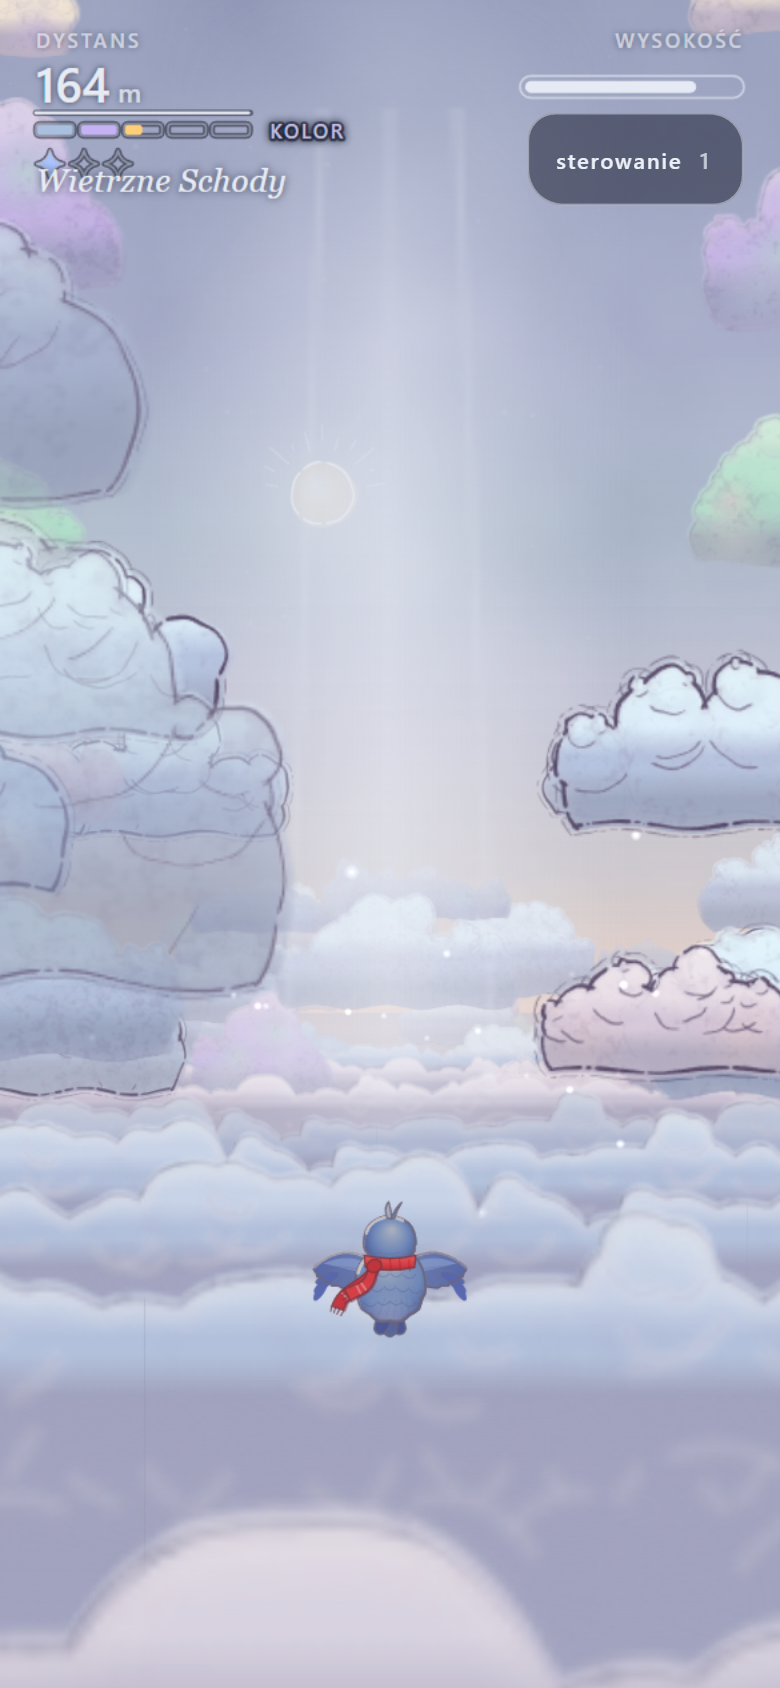
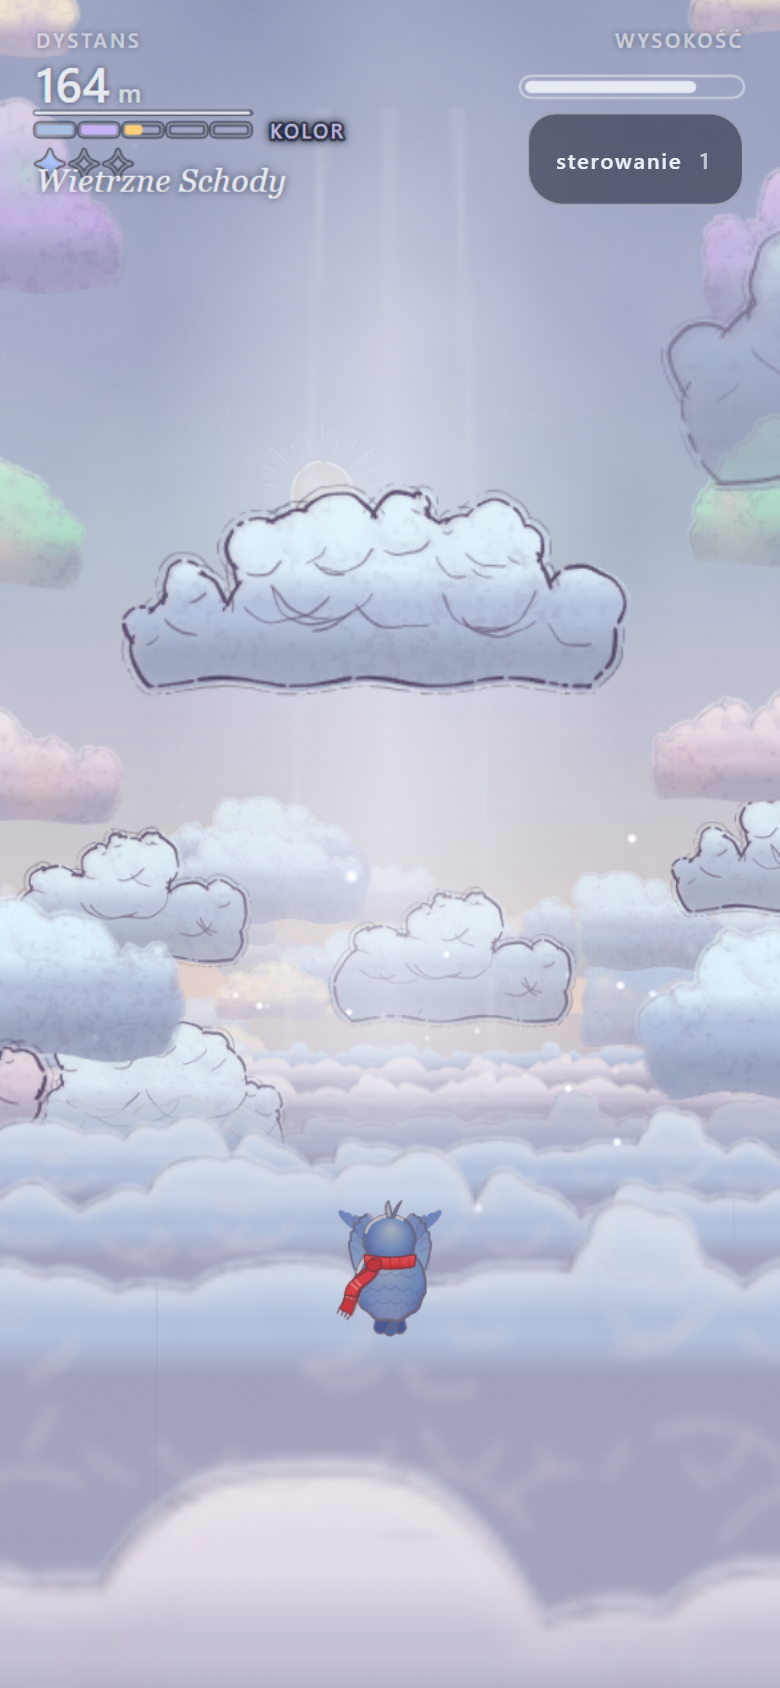
Z3c: nasycenie rośnie z poziomem także na tej samej scenie; test etapów koloru mierzy zamrożony świat
Przyczyna: w pełni koloru (L4/E=1) nasycenie chmur nie było wyraźnie wyższe niż w etapie ciepłym, więc na części układów chmur frakcja barwnych pikseli L4 spadała poniżej L3 (to samo w bazie sprzed Z3c, 2/10 scen; po zmianie palety 3/10).
Poprawka: SAT_FULL 0,35 w stageCol i w tonach chmur (rośnie z ST.f, pastele E 0,3-0,62 bez zmian); test Z3b mierzy każdy poziom na tej samej scenie (tempo 0,02), progi bez zmian. Pomiar diag_chroma3.cjs: 0/10 złych scen.

diff --git a/index.html b/index.html
@@ -1563,12 +1563,12 @@ na chmurce.</p>
 
   /* ---------- kolor: etapy, odcienie, paleta światła ---------- */
   /* kolor etapu: baza (kontur/granat) -> szarość/błękit -> pastel -> ciepło pory -> pełnia; warstwy nakładają się (etapy rozciągnięte) */
-  var PASTEL_WARM = 0.2, PASTEL_SAT = 1.55;
+  var PASTEL_WARM = 0.2, PASTEL_SAT = 1.55, SAT_FULL = 0.35;
   function satc(c, k) { var l = lumOf(c); return [Math.max(0, Math.min(255, l + (c[0] - l) * k)), Math.max(0, Math.min(255, l + (c[1] - l) * k)), Math.max(0, Math.min(255, l + (c[2] - l) * k))]; }
   function stageCol(base, F, warm, hz, ww) {
     var l = lumOf(F), Gc = [l * 0.9, l * 0.98, Math.min(255, l * 1.1 + 6)], Pc = mixc(mixc(F, [238, 232, 252], 0.42), [196, 210, 248], 0.18), Wc = mixc(F, warm, ww === undefined ? 0.5 : ww), c;
     Pc = satc(mixc(Pc, warm, PASTEL_WARM + (hz || 0)), PASTEL_SAT);   /* Z3c: pastel jest ciepły i baśniowy, nie szaro-lawendowy (zrzut żywego podglądu przy poziomie Kolor) */
-    c = mixc(base, Gc, ST.g); c = mixc(c, Pc, ST.p); c = mixc(c, Wc, ST.w); return mixc(c, F, ST.f);
+    c = mixc(base, Gc, ST.g); c = mixc(c, Pc, ST.p); c = mixc(c, Wc, ST.w); return satc(mixc(c, F, ST.f), 1 + SAT_FULL * ST.f);   /* Z3c: pełnia (E = 1 / Turbo) jest wyraźnie bardziej nasycona niż etap ciepły */
   }
   /* Z4: odcień chmury: chłodne (zielone, turkus, błękit) pochylamy ku barwie pory słabiej, żeby nie robiło się khaki */
   function hueCz(i2) { var c = HUES[i2].c, cool = c[1] > c[0] + 8 || c[2] > c[0] + 20 ? 0.3 : 1; return mulc(mixc(c, PAL.ht, PAL.ha * cool), PAL.hl); }
@@ -1591,6 +1591,7 @@ na chmurce.</p>
     hT = mixc(Hc, [255, 250, 240], 0.42); hM = mixc(Hc, [255, 250, 240], 0.15); hB = mixc(mulc(mixc(Hc, H2, 0.3), 0.86), mixc(P.sh, [176, 156, 220], 0.55), 0.3);
     var lift = 1.3 * wk * (1 - wk), CRM = [246, 240, 252];   /* Z4: przejście szarość > odcień przez jasny pastel (bez oliwkowego błota) */
     tones = [mixc(mixc(gB[0], CRM, lift), hT, wk), mixc(mixc(gB[1], CRM, lift), hM, wk), mixc(mixc(gB[2], CRM, lift * 0.8), Hc, wk), mixc(mixc(gB[3], CRM, lift * 0.5), hB, wk)];
+    for (k = 0; k < 4; k++) tones[k] = satc(tones[k], 1 + SAT_FULL * ST.f);   /* Z3c: nasycenie chmur rośnie w pełni koloru */
     if (storm) {
       C.tones = [mixc(tones[0], [104, 108, 156], 0.7), mixc(tones[1], [74, 78, 128], 0.72), mixc(tones[2], [50, 52, 100], 0.74), mixc(tones[3], [34, 36, 76], 0.76)];
     } else { C.tones = tones; C.tones[3] = mixc(tones[3], tones[2], 0.35 * P.nightW); }
